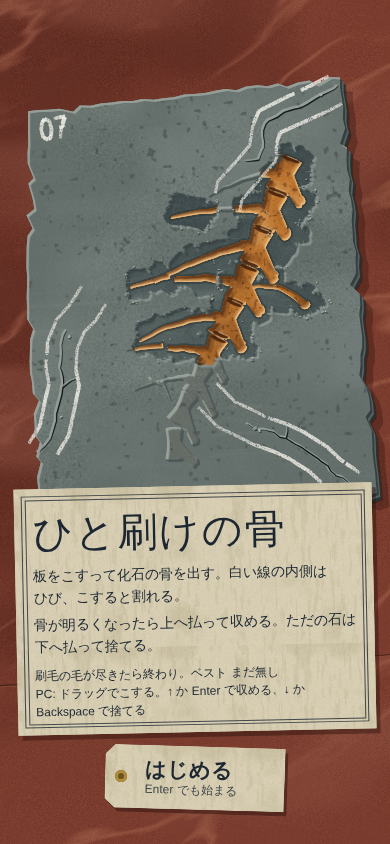
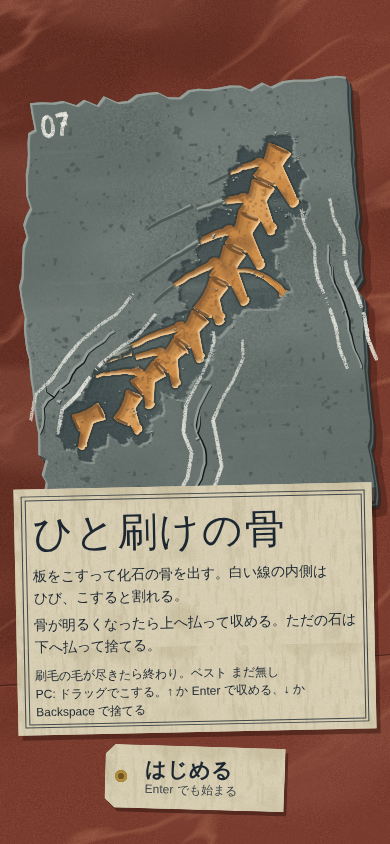
arcade: 012 差し戻し修正（2回目の監査前）
Claude-Session: https://claude.ai/code/session_01QkUvG7rhwuqzh5G9T4Jq1S

Changed region(s): [[0.0308, 0.0924, 1.0, 0.6161], [0.3385, 0.0924, 0.4308, 0.1232], [0.2462, 0.0924, 0.3077, 0.1232]]

diff --git a/arcade/games/012-fossil-brush/index.html b/arcade/games/012-fossil-brush/index.html
@@ -56,7 +56,7 @@ h1{margin:6px 0 8px;font:400 40px/1.15 "Hina Mincho","Hiragino Mincho ProN","Yu 
   <div class="label">
     <h1>ひと刷けの骨</h1>
     <p class="how">板をこすって化石の骨を出す。白い線の内側はひび、こすると割れる。</p>
-    <p class="how">骨が明るくなったら上へ払って収める。ただの石は下へ払って捨てる。</p>
+    <p class="how" id="howAct">骨が明るくなったら上へ払って収める。ただの石は下へ払って捨てる。</p>
     <p class="small">刷毛の毛が尽きたら終わり。ベスト <span id="tBest">まだ無し</span><br>PC: ドラッグでこする。↑ か Enter で収める、↓ か Backspace で捨てる</p>
   </div>
   <button class="tagbtn" id="bStart"><span class="sh"></span><span class="face"><b>はじめる</b><small>Enter でも始まる</small></span></button>
@@ -78,7 +78,7 @@ h1{margin:6px 0 8px;font:400 40px/1.15 "Hina Mincho","Hiragino Mincho ProN","Yu 
 var SIM = (function () {
 "use strict";
 var SW = 300, SH = 380, CELL = 5, GW = 60, GH = 76, BR = 12, CRW = 13, STEP = 2.5, VMAX = 650;
-var P = { budget: 22000, kanpinHair: 0.04, kanpinCap: 0.2, stage: [35, 75, 115], brk: 150, strokeCap: 100, scrUnit: 50, enter: 0.32, leave: 0.42, worn: 1.1, ready: 0.8 };
+var P = { budget: 17400, kanpinHair: 0.04, kanpinCap: 0.2, stage: [27, 58, 88], brk: 115, strokeCap: 100, scrUnit: 50, enter: 0.32, leave: 0.42, worn: 1.1, ready: 0.8 };
 var SPECIES = ["ながくびとかげ", "よろいうお"], PARTS = ["頭", "胴", "尾"];
 
 // ---------- 乱数・ノイズ（シード固定） ----------
@@ -170,7 +170,7 @@ function ribsFrom(g, cents, list, flip, seed, wmul) {
   list.forEach(function (r, k) {
     var c = cents[r[0]]; if (!c) return; setSeed(seed + k * 13);
     var x = c[0], y = c[1], a = c[2], hgt = c[3], tx = Math.cos(a), ty = Math.sin(a), vx = -Math.sin(a) * flip, vy = Math.cos(a) * flip; // 腹側
-    var th = (r[3] || 34) * Math.PI / 180 + alt * rr(6, 11) * Math.PI / 180; alt = -alt;
+    var th = (r[3] || 50) * Math.PI / 180 + alt * rr(6, 12) * Math.PI / 180; alt = -alt;
     var dx = vx * Math.cos(th) + tx * Math.sin(th), dy = vy * Math.cos(th) + ty * Math.sin(th), L = r[1] * rr(0.9, 1.1), bend = rr(0.6, 1.3);
     var p0 = [x + vx * hgt * 0.42 + tx * 2, y + vy * hgt * 0.42 + ty * 2], p2 = [p0[0] + dx * L, p0[1] + dy * L], p1 = [p0[0] + dx * L * 0.52 - tx * L * 0.14 * bend, p0[1] + dy * L * 0.52 - ty * L * 0.14 * bend];
     var pr = rib(p0, p1, p2, r[2] * wmul, seed + 50 + k, r[4] || -1, [rr(3, 6), rr(-6, -3)]);
@@ -182,9 +182,9 @@ function genPart(sp, part, seed, wmul) {
   var add = function (o) { g.parts.push.apply(g.parts, o.parts); g.ends.push.apply(g.ends, o.ends); g.pits.push.apply(g.pits, o.pits); };
   setSeed(seed);
   if (sp === 0 && part === 1) { // ながくびとかげの胴
-    c = chain([52, 28], [100, 118], [150, 232], [238, 334], 10, 38, 30, 26, 21, -1, seed, 8); add(c);
+    c = chain([36, 22], [98, 146], [124, 262], [262, 318], 10, 38, 30, 26, 21, -1, seed, 8); add(c);
     setSeed(seed + 1); var b1 = rnd() < 0.5 ? 1 : 3, b2 = 5;
-    ribsFrom(g, c.cents, [[0, 72, 9.6], [1, 94, 10.4, 34, b1 === 1 ? 0.55 : -1], [2, 106, 10.8], [3, 102, 10.4, 34, b1 === 3 ? 0.6 : -1], [4, 92, 9.8], [5, 80, 9.2, 34, 0.5], [6, 64, 8.4]], -1, seed + 400, wmul);
+    ribsFrom(g, c.cents, [[0, 60, 9.2, 38], [1, 100, 10.4, 56, b1 === 1 ? 0.55 : -1], [2, 118, 10.8, 44], [3, 84, 10.4, 64, b1 === 3 ? 0.6 : -1], [5, 104, 9.8, 50], [6, 66, 9.2, 68, 0.5], [7, 48, 8.4, 42]], -1, seed + 400, wmul);
     var cs = c.cents[2] || c.cents[0]; setSeed(seed + 9);
     g.parts.push.apply(g.parts, rib([cs[0] - 46, cs[1] + 70], [cs[0] - 20, cs[1] + 34], [cs[0] + 18, cs[1] + 44], 8.6 * wmul, seed + 90)); // 外れた肋骨
     for (i = 0; i < 3; i++) { setSeed(seed + 60 + i); var bx = rr(150, 230), by = rr(200, 260), ba = rr(0, 3); g.parts.push(rod([bx, by], [bx + Math.cos(ba) * 10, by + Math.sin(ba) * 10 + 3], [bx + Math.cos(ba) * 22, by + Math.sin(ba) * 22], 3.8 * wmul, 1.8 * wmul, seed + 70 + i)); }
@@ -197,20 +197,20 @@ function genPart(sp, part, seed, wmul) {
     g.parts.push(rot(chipped(jaw.map(function (p) { return [p[0] - 120, p[1] - 110]; }), 5, 1, 0.05, 3), 120, 110, ja));
     [[14, 3.2, 3.4], [18.5, 4.6, 3.8], [22.6, 1.6, 2.6], [27, 4.2, 4.2], [33, 2.8, 3.4], [39.5, 2.2, 3]].forEach(function (t, k) { setSeed(seed + 30 + k); var x = 30 + (t[0] - 11) * 3.6 + rr(-2, 2), y = 50 + (41.5 - (t[0] - 14) * 0.08 - 30) * 3.6, h = t[1] * 3.6 * rr(0.6, 1.2), w = t[2] * 3.2 * rr(0.85, 1.2), lean = rr(-0.5, 0.15) * h; var tp = []; for (var s = 0; s <= 6; s++) { var u = s / 6, sh = Math.sin(Math.PI * Math.min(1, u * rr(0.95, 1.1))); tp.push([x - w / 2 + w * u + lean * sh, y + 2 - h * sh]); } tp.push([x + w / 2, y + 4], [x - w / 2, y + 4]); g.parts.push(rot(tp.map(function (p) { return [p[0] - 120, p[1] - 110]; }), 120, 110, ja)); });
     g.pits.push([120 + 60, 120 + 52, 3], [110, 135, 1.6]);
-    c = chain([214, 196], [226, 236], [214, 290], [238, 340], 4, 34, 30, 23, 20, -1, seed + 7, -1); add(c);
+    c = chain([196, 200], [228, 228], [246, 290], [290, 322], 4, 34, 30, 23, 20, -1, seed + 7, -1); add(c);
     g.parts.push(rod([40, 230], [80, 262], [130, 268], 6.5 * wmul, 3 * wmul, seed + 80)); // 舌骨
     g.parts.push(blob(70, 300, 14, 9, 0.4, seed + 81)); // 外れた方形骨
   } else if (sp === 1 && part === 0) { // よろいうおの頭（頭の鱗板と鰓ぶた）
     [[-52, -26, 21], [-22, -36, 19], [8, -30, 17], [-40, 6, 23], [-6, -2, 22], [26, 6, 17], [-18, 32, 20], [14, 36, 15]].forEach(function (s, k) { var sc = scute(120 + s[0] * 1.15, 120 + s[1] * 1.15, s[2] * 0.98, 0.3 + k * 0.4, seed + k); g.parts.push(sc); setSeed(seed + 40 + k); for (var j = 0; j < 3; j++) g.pits.push([120 + s[0] * 1.15 + rr(-6, 6), 120 + s[1] * 1.15 + rr(-5, 5), rr(0.9, 1.5)]); });
     g.parts.push(blob(186, 170, 34, 27, 0.5, seed + 20));
     g.parts.push(rod([50, 190], [110, 222], [170, 228], 10 * wmul, 5 * wmul, seed + 21));
-    c = chain([222, 230], [236, 260], [232, 300], [250, 344], 3, 28, 26, 19, 18, -1, seed + 9, -1); add(c);
+    c = chain([214, 232], [242, 256], [250, 298], [288, 334], 3, 28, 26, 19, 18, -1, seed + 9, -1); add(c);
   } else if (sp === 1 && part === 1) { // よろいうおの胴（鱗板の列＋背骨＋細い肋骨）
-    c = chain([60, 40], [84, 150], [146, 250], [226, 328], 11, 27, 23, 18, 15, -1, seed, 9); add(c);
+    c = chain([52, 34], [66, 168], [150, 272], [238, 324], 11, 27, 23, 18, 15, -1, seed, 9); add(c);
     c.cents.forEach(function (q, k) { if (k % 1 !== 0 || k > 9) return; var a = q[2], nx = Math.sin(a), ny = -Math.cos(a); g.parts.push(scute(q[0] - nx * 34 + Math.cos(a) * 4, q[1] - ny * 34 + Math.sin(a) * 4, 12 + (k % 3) * 2, a + 0.4, seed + 300 + k)); });
     ribsFrom(g, c.cents, [[0, 46, 5.6], [1, 54, 6], [2, 58, 6], [3, 56, 6, 38, 0.55], [4, 52, 5.8], [5, 48, 5.6], [6, 42, 5.2], [7, 36, 5]], -1, seed + 400, wmul);
   } else { // よろいうおの尾（背骨＋扇の鰭条）
-    c = chain([66, 26], [96, 130], [160, 210], [176, 262], 10, 26, 11, 18, 8, -1, seed, 7); add(c);
+    c = chain([56, 24], [126, 108], [112, 214], [198, 270], 10, 26, 11, 18, 8, -1, seed, 7); add(c);
     var lc = c.cents[c.cents.length - 1], la = lc[2];
     for (i = 0; i < 8; i++) { setSeed(seed + 600 + i); var aa = la + (i / 7 - 0.5) * 1.5 + rr(-0.06, 0.06), L = rr(56, 84), x0 = lc[0] + Math.cos(la) * 6, y0 = lc[1] + Math.sin(la) * 6; g.parts.push(rod([x0, y0], [x0 + Math.cos(aa) * L * 0.5 + rr(-3, 3), y0 + Math.sin(aa) * L * 0.5 + rr(-3, 3)], [x0 + Math.cos(aa) * L, y0 + Math.sin(aa) * L], 3.8 * wmul, 1.3 * wmul, seed + 620 + i)); }
     [2, 4].forEach(function (k) { var q = c.cents[k]; if (q) g.parts.push(scute(q[0] - Math.sin(q[2]) * 28, q[1] + Math.cos(q[2]) * 28, 12, q[2], seed + 700 + k)); });
@@ -609,6 +609,7 @@ function stampText(g, txt, x, y, font, seed, col = C.ink, a = 0.9) {
 let sim = null, state = "title", paused = false, best = 0;
 const bestKey = "fossil_brush_best";
 try { best = +localStorage.getItem(bestKey) || 0; } catch (e) { best = 0; }
+let bestKan = 0; try { bestKan = +localStorage.getItem(bestKey + "_kanpin") || 0; } catch (e) { bestKan = 0; }
 const PAD = 30; // 質感の作り置きの余白（板ごとにずらして使う）
 let TEX = null, PT = null;
 let SL = { cx: 195, cy: 400, sc: 1.2 };
@@ -764,21 +765,26 @@ function layout() {
   VW = window.innerWidth; VH = window.innerHeight; dpr = Math.min(2, window.devicePixelRatio || 1);
   for (const c of [cv, bgc]) { c.width = Math.round(VW * dpr); c.height = Math.round(VH * dpr); c.style.width = VW + "px"; c.style.height = VH + "px"; }
   land = VW > VH * 1.15; document.body.className = land ? "L" : "P";
+  const ha = document.getElementById("howAct"); if (ha) ha.textContent = land ? "骨が明るくなったら「おさめる」の札で収める。ただの石は「すてる」の札で捨てる。" : "骨が明るくなったら上へ払って収める。ただの石は下へ払って捨てる。";
   if (!land) {
-    const ox = Math.max(0, (VW - 390) / 2), top = 124, bot = VH - 152, aw = Math.min(VW - 40, 520), ah = bot - top;
+    const ox = Math.max(0, (VW - 390) / 2), top = 164, bot = VH - 152, aw = Math.min(VW - 40, 520), ah = bot - top;
     SL = { cx: VW / 2, cy: top + ah / 2 + 4, sc: Math.max(0.6, Math.min(aw / SW, ah / SH)) };
     const ew = Math.min(390, VW), w1 = Math.min(162, (ew - 46) / 2), w2 = Math.min(172, (ew - 46) / 2);
     SL.tray = { x: ox + 14, y: 16, a: -0.025 }; SL.label = { x: ox + Math.min(214, ew - 170), y: 18, a: 0.03 };
-    SL.brush = { x: ox + 26, y: VH - 136, a: -0.08, s: 1 };
+    SL.brush = { x: ox + 26, y: Math.min(VH - 114, Math.max(VH - 136, SL.cy + SH * SL.sc / 2 + 30)), a: -0.08, s: 1 };
     SL.tags = [{ id: "discard", x: ox + 14, y: VH - 86, w: w1, h: 62, a: -0.035, main: "すてる", sub: "板を下へ払う" }, { id: "collect", x: ox + ew - 14 - w2, y: VH - 92, w: w2, h: 62, a: 0.025, main: "おさめる", sub: "板を上へ払う" }];
-    SL.slip = { x: ox + Math.max(150, ew - 198), y: 112 };
+    // 知らせの紙片はトレー・ラベルと板の間に2枚まで横に並べる（板の上の縁・ひびを隠さない）
+    const sw = Math.min(176, (ew - 36) / 2), sy = Math.min(118, SL.cy - SH * SL.sc / 2 - 46);
+    SL.slip = { w: sw, pos: [{ x: ox + ew - 14 - sw, y: sy }, { x: ox + 14, y: sy + 2 }] };
   } else {
     const lw = 200, rw = 214, aw = VW - lw - rw, ah = VH - 16;
     SL = { cx: lw + aw / 2, cy: VH / 2 + 2, sc: Math.max(0.5, Math.min(aw / SW, ah / SH)) };
     SL.tray = { x: 12, y: 12, a: -0.025 }; SL.label = { x: 20, y: 122, a: 0.03 };
     SL.brush = { x: VW - rw + 8, y: 46, a: -0.06, s: 0.74 };
-    SL.tags = [{ id: "collect", x: VW - rw + 22, y: VH - 168, w: 172, h: 60, a: 0.025, main: "おさめる", sub: "板を上へ払う" }, { id: "discard", x: VW - rw + 18, y: VH - 88, w: 172, h: 60, a: -0.03, main: "すてる", sub: "板を下へ払う" }];
-    SL.slip = { x: 14, y: 222 };
+    // 横画面は板が高さいっぱいで払いの帯が無いので、札の字は札とキーの操作を書く
+    const touch = (window.matchMedia && matchMedia("(pointer: coarse)").matches) || navigator.maxTouchPoints > 0;
+    SL.tags = [{ id: "collect", x: VW - rw + 22, y: VH - 168, w: 172, h: 60, a: 0.025, main: "おさめる", sub: touch ? "札を押す" : "↑ か Enter" }, { id: "discard", x: VW - rw + 18, y: VH - 88, w: 172, h: 60, a: -0.03, main: "すてる", sub: touch ? "札を押す" : "↓ か Backspace" }];
+    SL.slip = { w: 178, pos: [{ x: 14, y: 222 }, { x: 14, y: 268 }] };
   }
   DPR = 1; const lt = linoTex(Math.ceil(VW), Math.ceil(VH), 41); DPR = dpr;
   const lc = makeCanvas(VW, VH); blit(lc, lt);
@@ -791,8 +797,10 @@ function layout() {
 function rebuildFromGrid(sl) {
   const lv = L && L.sl === sl ? L.brightLv : 0; buildSlab(sl); L.brightLv = lv;
   const g = L.crust; g.save(); g.globalCompositeOperation = "destination-out"; g.fillStyle = "#000";
-  for (let i = 0; i < SIM.GW * SIM.GH; i++) if (sl.dug[i] >= 1) g.fillRect((i % SIM.GW) * SIM.CELL - 0.6, ((i / SIM.GW) | 0) * SIM.CELL - 0.6, SIM.CELL + 1.2, SIM.CELL + 1.2);
-  g.restore();
+  // 格子を丸い粒で抜く（四角い角を出さない）
+  g.beginPath(); setSeed(sl.seed + 3);
+  for (let i = 0; i < SIM.GW * SIM.GH; i++) if (sl.dug[i] >= 1) { const cx = (i % SIM.GW) * SIM.CELL + 2.5 + rr(-0.8, 0.8), cy = ((i / SIM.GW) | 0) * SIM.CELL + 2.5 + rr(-0.8, 0.8), r = rr(3.6, 4.4); g.moveTo(cx + r, cy); g.arc(cx, cy, r, 0, 6.2832); }
+  g.fill(); g.restore();
   for (const poly of sl.lostPolys) for (const k of ["S", "B", "crust", "dust", "scr"]) cutPoly(L[k], poly);
   redrawCracks(); rebuildEdges();
 }
@@ -871,7 +879,7 @@ function slabOffset() {
 function drawFG() {
   const g = ctx; g.setTransform(1, 0, 0, 1, 0, 0); g.clearRect(0, 0, cv.width, cv.height);
   if (state !== "result" && L && sim) {
-    const o = slabOffset(), ty = state === "title" && !land ? -Math.max(0, Math.min(110, SL.cy - SH * SL.sc / 2 - 50)) : 0, X = Math.round((SL.cx + o.x) * dpr - LD.w / 2), Y = Math.round((SL.cy + o.y + ty) * dpr - LD.h / 2);
+    const o = slabOffset(), ty = state === "title" && !land ? -Math.max(0, Math.min(132, SL.cy - SH * SL.sc / 2 - 50)) : 0, X = Math.round((SL.cx + o.x) * dpr - LD.w / 2), Y = Math.round((SL.cy + o.y + ty) * dpr - LD.h / 2);
     g.globalAlpha = o.al; g.drawImage(L.under.canvas, X, Y); g.drawImage(L.crustR.canvas, X, Y); g.drawImage(L.crk.canvas, X, Y); g.globalAlpha = 1;
     if (fx.piece) { const p = fx.piece, t = p.t / 0.8; g.globalAlpha = Math.max(0, 1 - t * t); g.drawImage(p.c.canvas, Math.round(X + p.dx * t * 60 * dpr), Math.round(Y + (t * t * 240 + t * 20) * dpr)); g.globalAlpha = 1; }
     const st = sim.st;
@@ -886,7 +894,8 @@ function drawFG() {
   for (const q of fx.grains) { g.fillStyle = q.c; g.fillRect(q.x, q.y, q.s, q.s * 0.8); }
   for (const s of fx.slips) {
     const t = s.t, a = t < 0.15 ? t / 0.15 : t > s.life - 0.4 ? Math.max(0, (s.life - t) / 0.4) : 1;
-    g.save(); g.globalAlpha = a; g.translate(SL.slip.x, SL.slip.y + s.slot * 46 - (1 - Math.min(1, t / 0.15)) * 6); g.rotate(-0.02 + s.slot * 0.015);
+    const sp = SL.slip.pos[s.slot] || SL.slip.pos[0];
+    g.save(); g.globalAlpha = a; g.translate(sp.x, sp.y - (1 - Math.min(1, t / 0.15)) * 6); g.rotate(-0.02 + s.slot * 0.025);
     g.fillStyle = "rgba(38,14,10,0.4)"; g.fillRect(3, 4, s.w, 38); g.drawImage(PT.slip.canvas, 0, 0, s.w, 38);
     g.fillStyle = C.ink; g.textAlign = "left"; g.font = `700 13px ${FG}`; g.fillText(s.a, 9, 17, s.big ? s.w - 70 : s.w - 16); g.font = `500 12px ${FG}`; g.fillText(s.b, 9, 33, s.w - 16);
     if (s.big) { g.font = `400 22px ${FM}`; g.textAlign = "right"; g.fillText(s.big, s.w - 7, 21); }
@@ -896,27 +905,57 @@ function drawFG() {
 }
 function drawResultTray(g) {
   const st = sim.st, sets = Object.values(st.sets).filter((s) => s.got.some((x) => x));
-  const rows = sets.slice(-6);
   const area = land ? { x: 16, y: 14, w: VW - 316, h: VH - 28 } : { x: 14, y: 16, w: VW - 28, h: VH - 330 };
-  const cw = Math.min(124, (area.w - 30) / 3), ch = Math.max(40, Math.min(cw * 1.0, (area.h - 46) / Math.max(1, rows.length) - 8));
-  const tw = cw * 3 + 22, th = Math.max(96, 36 + rows.length * (ch + 8) + 10);
-  g.save(); g.translate(area.x + (area.w - tw) / 2, area.y); g.rotate(-0.012);
+  // 左（縦画面では上）にその回のトレー、残りに「組み上げた1体」の図版
+  const side = land, sc = 46; // sc: 図版の番号を押す欄の幅（骨の区画に重ねない）
+  const trayW = side ? Math.min(area.w * 0.58, 3 * 96 + 22 + sc) : area.w, trayHmax = side ? area.h : Math.max(150, area.h * 0.5);
+  const cw = Math.min(110, (trayW - 22 - sc) / 3), maxRows = Math.max(1, Math.floor((trayHmax - 46) / 48));
+  const rows = sets.slice(-maxRows), more = sets.length - rows.length;
+  // 引き出しの区画は空きも含めて並べる（収めた組は上から詰める）
+  const nr = Math.max(rows.length, Math.min(maxRows, 4)), ch = Math.max(40, Math.min(cw * 0.9, (trayHmax - 46) / nr - 8));
+  const tw = cw * 3 + 22 + sc, th = Math.max(96, 36 + nr * (ch + 8) + 10);
+  const tx = side ? area.x : area.x + (area.w - tw) / 2;
+  g.save(); g.translate(tx, area.y); g.rotate(-0.012);
   g.fillStyle = "rgba(38,14,10,0.42)"; g.fillRect(5, 6, tw, th); g.drawImage(PT.big.canvas, 0, 0, tw, th);
   g.fillStyle = "rgba(90,74,44,0.25)"; g.fillRect(0, 0, tw, 4); g.fillRect(0, 0, 4, th);
   g.fillStyle = C.ink; g.font = `700 14px ${FG}`; g.textAlign = "left"; g.fillText("今日の標本トレー", 12, 24);
-  if (!rows.length) { g.font = `500 13px ${FG}`; g.fillText("収めた骨はまだ無い", 12, 60); }
+  if (more > 0) { g.font = `500 12px ${FG}`; g.textAlign = "right"; g.fillText(`ほか ${more} 組`, tw - 12, 24); g.textAlign = "left"; }
+  for (let r = rows.length; r < nr; r++) for (let k = 0; k < 3; k++) { g.globalAlpha = 0.45; g.drawImage(PT.cot[k].canvas, 11 + k * cw, 36 + r * (ch + 8), cw - 5, ch); g.globalAlpha = 1; }
+  if (!rows.length) { g.font = `500 13px ${FG}`; g.fillText("収めた骨はまだ無い", 16, 36 + ch / 2 + 5); }
   rows.forEach((s, r) => {
     const y = 36 + r * (ch + 8);
     for (let k = 0; k < 3; k++) {
       const x = 11 + k * cw; g.save(); g.translate(x, y); g.drawImage(PT.cot[k].canvas, 0, 0, cw - 5, ch);
       const t2 = s.thumbs && s.thumbs[k];
-      if (t2) { const sc = Math.min((cw - 11) / t2.W, (ch - 6) / t2.H), w = t2.W * sc, h = t2.H * sc; g.drawImage(t2.canvas, (cw - 5 - w) / 2, (ch - h) / 2, w, h); }
+      if (t2) { const f = Math.min((cw - 11) / t2.W, (ch - 6) / t2.H), w = t2.W * f, h = t2.H * f; g.drawImage(t2.canvas, (cw - 5 - w) / 2, (ch - h) / 2, w, h); }
       else { g.fillStyle = "rgba(29,39,49,0.6)"; g.font = `500 12px ${FG}`; g.textAlign = "center"; g.fillText(SIM.PARTS[k], (cw - 5) / 2, ch / 2 + 4); g.textAlign = "left"; }
       if (s.got[k] && s.got[k].kanpin) stampText(g, "完品", 4, ch - 4, `700 13px ${FG}`, 90 + r * 3 + k, C.ink, 0.85);
       g.restore();
     }
-    if (s.done) stampText(g, `図版 第${s.plate}`, 11 + cw * 0.95, y + ch * 0.62, `400 26px ${FM}`, 120 + r, C.ink, 0.86);
+    if (s.done) { g.save(); g.translate(11 + cw * 3 + 2, y + ch / 2 + 9); g.rotate(-0.12); stampText(g, `第${s.plate}`, 0, 0, `400 20px ${FM}`, 120 + r, C.ink, 0.86); g.restore(); }
   });
+  g.restore();
+  // 図版: いちばん良くそろった1体を、頭・胴・尾の区画をまたいで大きく並べ直す
+  const pa = side ? { x: tx + tw + 16, y: area.y + 4, w: area.x + area.w - (tx + tw + 16), h: area.h - 8 } : { x: area.x + 6, y: area.y + th + 18, w: area.w - 12, h: area.h - th - 22 };
+  if (pa.w < 120 || pa.h < 110) return;
+  const score = (s) => (s.done ? 10 : 0) + s.got.filter((x) => x).length + s.got.reduce((a, x) => a + (x ? x.pct : 0), 0) / 3;
+  const F = sets.slice().sort((p, q) => score(q) - score(p) || q.no - p.no)[0];
+  g.save(); g.translate(pa.x, pa.y); g.rotate(side ? 0.014 : 0.01);
+  g.fillStyle = "rgba(38,14,10,0.42)"; g.fillRect(5, 6, pa.w, pa.h); g.drawImage(PT.big.canvas, 0, 0, pa.w, pa.h);
+  g.strokeStyle = "rgba(29,39,49,0.8)"; g.lineWidth = 1.4; g.strokeRect(7, 7, pa.w - 14, pa.h - 14); g.lineWidth = 0.6; g.strokeRect(10.5, 10.5, pa.w - 21, pa.h - 21);
+  g.fillStyle = C.ink; g.textAlign = "left";
+  if (!F) { g.font = `400 18px ${FM}`; g.fillText("今日の図版は無し", 22, 40); g.font = `500 12px ${FG}`; g.fillText("骨が8割見えたら収めると、ここに並ぶ", 22, 62, pa.w - 40); g.restore(); return; }
+  g.font = `400 18px ${FM}`; g.fillText(SIM.SPECIES[F.species], 22, 36, pa.w - 44);
+  g.font = `500 12px ${FG}`; const got = F.got.filter((x) => x).length;
+  g.fillText(F.done ? `頭・胴・尾がそろった　平均 ${Math.round(F.got.reduce((a, x) => a + x.pct, 0) / 3 * 100)}%` : `3枚のうち ${got} 枚`, 22, 54, pa.w - 44);
+  const bx = 18, by = 64, bw = pa.w - 36, bh = pa.h - by - 16, cell = Math.min(Math.min(bw, bh) * 0.85, Math.max(bw, bh) * 0.42);
+  for (let k = 0; k < 3; k++) {
+    // 頭→胴→尾を左上から右下へ、少しずつ重ねて1体に並べ直す
+    const cx = bx + cell * 0.5 + (bw - cell) * k / 2, cy = by + cell * 0.5 + (bh - cell) * k / 2, t2 = F.thumbs && F.thumbs[k];
+    if (t2) { const f = Math.min(cell / t2.W, cell / t2.H), w = t2.W * f, h = t2.H * f; g.save(); g.translate(cx, cy); g.rotate((k - 1) * 0.08); g.drawImage(t2.canvas, -w / 2, -h / 2, w, h); g.restore(); }
+    else { g.fillStyle = "rgba(29,39,49,0.45)"; g.font = `500 12px ${FG}`; g.textAlign = "center"; g.fillText(`${SIM.PARTS[k]}は無し`, cx, cy + 4); g.textAlign = "left"; }
+  }
+  if (F.done) { g.save(); g.translate(22, pa.h - 24); g.rotate(-0.09); stampText(g, `図版 第${F.plate}`, 0, 0, `400 26px ${FM}`, 160 + F.plate, C.ink, 0.88); g.restore(); }
   g.restore();
 }
 
@@ -960,9 +999,9 @@ function audioFrame(dt) {
 
 // ---------- 出来事 ----------
 function slip(a, b, big, life = 2.2) {
-  fx.slips = fx.slips.filter((s) => s.t < s.life); const used = fx.slips.map((s) => s.slot); let slot = 0; while (used.includes(slot) && slot < 2) slot++;
-  if (used.includes(slot)) { fx.slips.shift(); }
-  fx.slips.push({ a, b, big, t: 0, life, slot, w: land ? 178 : 186 });
+  fx.slips = fx.slips.filter((s) => s.t < s.life); if (fx.slips.length >= 2) fx.slips.shift();
+  const used = fx.slips.map((s) => s.slot); let slot = 0; while (used.includes(slot)) slot++;
+  fx.slips.push({ a, b, big, t: 0, life, slot, w: SL.slip.w });
 }
 function handleEvents() {
   const evs = sim.st.events; if (!evs.length) return;
@@ -1025,7 +1064,8 @@ function endGame() {
   document.getElementById("rScore").textContent = st.score.toLocaleString();
   const ok = st.collected.filter((r) => r.ok).length;
   document.getElementById("rDetail").innerHTML = `収めた骨 ${ok} 枚、そろった骨格 ${st.setsDone} 体<br>完品 ${st.kanpin} 枚、割れた板 ${st.breaks} 枚`;
-  document.getElementById("rBest").textContent = nb ? "ベストを更新した" : `ベスト ${best.toLocaleString()}`;
+  const nk = st.kanpin > bestKan; if (nk) { bestKan = st.kanpin; try { localStorage.setItem(bestKey + "_kanpin", String(bestKan)); } catch (e) {} }
+  document.getElementById("rBest").textContent = (nb ? "ベストを更新した" : `ベスト ${best.toLocaleString()}`) + (nk ? "　完品の数も新記録" : bestKan ? `　完品のベスト ${bestKan} 枚` : "");
   document.getElementById("result").classList.add("show"); bgDirty = true; fgDirty = true; fx.slips = []; fx.grains = []; fx.piece = null;
   if (usedKeys) setTimeout(() => { try { document.getElementById("bAgain").focus({ preventScroll: true }); } catch (e) {} }, 50);
 }
@@ -1049,7 +1089,7 @@ cv.addEventListener("pointerdown", (e) => {
   const x = e.clientX, y = e.clientY, now = performance.now(), tg = hitTag(x, y);
   if (tg) { G = { id: e.pointerId, kind: "tag", tag: tg }; pressedTag = tg; bgDirty = true; return; }
   if (onSlab(x, y)) { G = { id: e.pointerId, kind: "scrub" }; const p = toLocal(x, y); sim.press(p.x, p.y); STAT.scrubStart++; kb.on = false; return; }
-  if (inBand(x, y)) { G = { id: e.pointerId, kind: "flick", pts: [[x, y, now]], x0: x, y0: y }; return; }
+  if (inBand(x, y)) { G = { id: e.pointerId, kind: "flick", pts: [[x, y, now]], x0: x, y0: y, top: y < SL.cy }; return; }
   G = { id: e.pointerId, kind: "idle" };
 }, { passive: false });
 cv.addEventListener("pointermove", (e) => {
@@ -1057,7 +1097,12 @@ cv.addEventListener("pointermove", (e) => {
   const x = e.clientX, y = e.clientY;
   if (G.kind === "scrub") { const p = toLocal(x, y); if (sim.st.down) sim.move(p.x, p.y); else sim.press(p.x, p.y); }
   else if (G.kind === "idle") { if (onSlab(x, y, 0)) { G.kind = "scrub"; const p = toLocal(x, y); sim.press(p.x, p.y); STAT.scrubStart++; } }
-  else if (G.kind === "flick") { G.pts.push([x, y, performance.now()]); if (G.pts.length > 40) G.pts.shift(); }
+  else if (G.kind === "flick") {
+    // 帯から板の中へ入った指はこすりに切り替える（板の中へ向かう払いは無い）
+    const inward = G.top ? y - G.y0 : G.y0 - y;
+    if (inward >= 8 && onSlab(x, y, 0)) { G.kind = "scrub"; G.pts = null; const p = toLocal(x, y); sim.press(p.x, p.y); STAT.scrubStart++; STAT.bandScrub = (STAT.bandScrub || 0) + 1; kb.on = false; }
+    else { G.pts.push([x, y, performance.now()]); if (G.pts.length > 40) G.pts.shift(); }
+  }
   else if (G.kind === "tag") { const t = hitTag(x, y), want = t === G.tag ? G.tag : null; if (want !== pressedTag) { pressedTag = want; bgDirty = true; } }
 }, { passive: false });
 function endPointer(e, cancel) {
@@ -1066,10 +1111,11 @@ function endPointer(e, cancel) {
   if (G.kind === "scrub") sim.release();
   else if (G.kind === "tag") { const t = hitTag(x, y); pressedTag = null; bgDirty = true; if (!cancel && t === G.tag) { STAT.tag++; if (G.tag === "collect") doCollect(); else doDiscard(); } }
   else if (G.kind === "flick" && !cancel) {
-    // 払い: 板の外の帯から始めた素早い指の動きだけ。離す直前の速さで決める（止めてから離したら何もしない）
-    G.pts.push([x, y, now]); const rec = G.pts.filter((p) => now - p[2] <= 90), a = rec[0], dy = y - G.y0, dx = x - G.x0;
-    const vy = rec.length > 1 && now - a[2] > 8 ? (y - a[1]) / (now - a[2]) : 0;
-    if (Math.abs(dy) > 46 && Math.abs(dy) > Math.abs(dx) * 1.2 && Math.abs(vy) > 0.45 && Math.sign(vy) === Math.sign(dy)) { STAT.flick++; if (dy < 0) doCollect(); else doDiscard(); } else STAT.flickNo++;
+    // 払い: 板の外の帯から、板から離れる向き（上の帯は上へ＝収める、下の帯は下へ＝捨てる）だけ。
+    // 離す直前 90ms の速さで決める（止めてから離したら何もしない）
+    G.pts.push([x, y, now]); const rec = G.pts.filter((p) => now - p[2] <= 90), a = rec[0], out = G.top ? G.y0 - y : y - G.y0, dx = x - G.x0;
+    const vo = rec.length > 1 && now - a[2] > 8 ? (G.top ? a[1] - y : y - a[1]) / (now - a[2]) : 0;
+    if (out > 40 && out > Math.abs(dx) * 1.1 && vo > 0.12) { STAT.flick++; if (G.top) doCollect(); else doDiscard(); } else STAT.flickNo++;
   }
   G = null;
 }
@@ -1109,14 +1155,15 @@ window.addEventListener("resize", () => { clearTimeout(window.__rz); window.__rz
 
 // ---------- タイトルの見本（骨に沿った軌跡でこすって、上半分ほど掘った板） ----------
 function demo() {
-  sim = SIM.create(20261013); const st = sim.st;
+  sim = SIM.create(20261042); const st = sim.st;
   st.deck = [{ species: 0, part: 1, setNo: 1 }]; st.sets[1] = { species: 0, got: [null, null, null], done: false, no: 1 }; st.setNo = 1; st.n = 6;
   sim.start(); st.phase = "play"; st.events.length = 0;
-  const sl = st.slab, b = sl.geo.bbox, yMid = b[1] + (b[3] - b[1]) * 0.56;
+  const sl = st.slab, b = sl.geo.bbox, cen = [];
+  for (let i = 0; i + 1 < sl.geo.ends.length; i += 2) cen.push([(sl.geo.ends[i][0] + sl.geo.ends[i + 1][0]) / 2, (sl.geo.ends[i][1] + sl.geo.ends[i + 1][1]) / 2]);
   buildSlab(sl);
   setSeed(11); let x = b[0], y = b[1], strokes = 0, guard = 0;
   while (strokes < 40 && guard++ < 4000) {
-    const w = SIM.planNext(sl, x, y, { margin: 4, region: (cx, cy) => cy < yMid + (cx - b[0]) * 0.25 });
+    const w = SIM.planNext(sl, x, y, { margin: 4, region: (cx, cy) => SIM.distPL(cx, cy, cen) < 54 + 28 * Math.sin(cx * 0.045 + cy * 0.03) });
     if (!w) break;
     if (w.lift || !st.down) { if (st.down) { sim.release(); handleDemo(); strokes++; } sim.press(w.x + rr(-3, 3), w.y + rr(-3, 3)); }
     sim.move(w.x + rr(-2, 2), w.y + rr(-2, 2));
